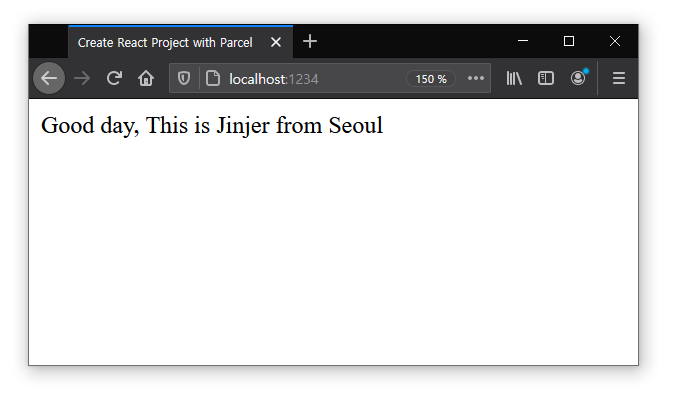
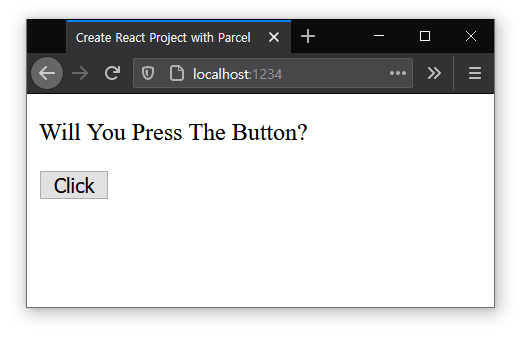
포스팅 추가

Changed region(s): [[0.0302, 0.0581, 0.9679, 0.9012]]

diff --git a/_site/blog/index.html b/_site/blog/index.html
@@ -49,11 +49,11 @@ Powered by Hydejack v9.0.5 <https://hydejack.com/>
 <meta property="og:url" content="http://localhost:4000/blog/" />
 <meta property="og:site_name" content="Jinjer’s Blog" />
 <meta property="og:type" content="article" />
-<meta property="article:published_time" content="2021-01-28T17:12:47+09:00" />
+<meta property="article:published_time" content="2021-01-29T22:03:18+09:00" />
 <meta name="twitter:card" content="summary" />
 <meta property="twitter:title" content="Blog" />
 <script type="application/ld+json">
-{"url":"http://localhost:4000/blog/","headline":"Blog","dateModified":"2021-01-05T16:00:02+09:00","datePublished":"2021-01-28T17:12:47+09:00","description":"Anything about Development","publisher":{"@type":"Organization","logo":{"@type":"ImageObject","url":"http://localhost:4000/assets/img/jinjer.png"}},"@type":"WebPage","@context":"https://schema.org"}</script>
+{"url":"http://localhost:4000/blog/","headline":"Blog","dateModified":"2021-01-05T16:00:02+09:00","datePublished":"2021-01-29T22:03:18+09:00","description":"Anything about Development","publisher":{"@type":"Organization","logo":{"@type":"ImageObject","url":"http://localhost:4000/assets/img/jinjer.png"}},"@type":"WebPage","@context":"https://schema.org"}</script>
 <!-- End Jekyll SEO tag -->
 
 
@@ -417,7 +417,7 @@ html{--accent-color: rgb(79,177,186);--accent-color-faded: rgba(79,177,186,0.5);
 
 
 <li class="h4">
-  <a href="/blog/2020/04/26/react-without-create-react-app.html" class="flip-title"><span>React 프로젝트 작업 환경 세팅하기</span></a>
+  <a href="/blog/2020/04/26/react-without-create-react-app.html" class="flip-title"><span>React(Next.js)로 만드는 채팅 애플리케이션(1)</span></a>
   <time class="faded fine" datetime="2020-04-26T00:00:00+09:00">26 Apr</time>
 </li>
 

diff --git a/_site/tag-nodejs/index.html b/_site/tag-nodejs/index.html
@@ -49,11 +49,11 @@ Powered by Hydejack v9.0.5 <https://hydejack.com/>
 <meta property="og:url" content="http://localhost:4000/tag-nodejs/" />
 <meta property="og:site_name" content="Jinjer’s Blog" />
 <meta property="og:type" content="article" />
-<meta property="article:published_time" content="2021-01-29T12:07:36+09:00" />
+<meta property="article:published_time" content="2021-01-29T22:03:18+09:00" />
 <meta name="twitter:card" content="summary" />
 <meta property="twitter:title" content="Node.js" />
 <script type="application/ld+json">
-{"url":"http://localhost:4000/tag-nodejs/","publisher":{"@type":"Organization","logo":{"@type":"ImageObject","url":"http://localhost:4000/assets/img/jinjer.png"}},"headline":"Node.js","dateModified":"2021-01-26T14:26:19+09:00","datePublished":"2021-01-29T12:07:36+09:00","description":"Posts about Node.js","@type":"WebPage","@context":"https://schema.org"}</script>
+{"url":"http://localhost:4000/tag-nodejs/","headline":"Node.js","dateModified":"2021-01-05T16:01:57+09:00","datePublished":"2021-01-29T22:03:18+09:00","description":"Posts about Node.js","publisher":{"@type":"Organization","logo":{"@type":"ImageObject","url":"http://localhost:4000/assets/img/jinjer.png"}},"@type":"WebPage","@context":"https://schema.org"}</script>
 <!-- End Jekyll SEO tag -->
 
 

diff --git a/_site/tag-aws/index.html b/_site/tag-aws/index.html
@@ -49,11 +49,11 @@ Powered by Hydejack v9.0.5 <https://hydejack.com/>
 <meta property="og:url" content="http://localhost:4000/tag-aws/" />
 <meta property="og:site_name" content="Jinjer’s Blog" />
 <meta property="og:type" content="article" />
-<meta property="article:published_time" content="2021-01-28T16:42:12+09:00" />
+<meta property="article:published_time" content="2021-01-29T22:03:18+09:00" />
 <meta name="twitter:card" content="summary" />
 <meta property="twitter:title" content="AWS" />
 <script type="application/ld+json">
-{"url":"http://localhost:4000/tag-aws/","headline":"AWS","dateModified":"2021-01-05T16:02:41+09:00","datePublished":"2021-01-28T16:42:12+09:00","description":"Posts about AWS","publisher":{"@type":"Organization","logo":{"@type":"ImageObject","url":"http://localhost:4000/assets/img/jinjer.png"}},"@type":"WebPage","@context":"https://schema.org"}</script>
+{"url":"http://localhost:4000/tag-aws/","headline":"AWS","dateModified":"2021-01-05T16:02:41+09:00","datePublished":"2021-01-29T22:03:18+09:00","description":"Posts about AWS","publisher":{"@type":"Organization","logo":{"@type":"ImageObject","url":"http://localhost:4000/assets/img/jinjer.png"}},"@type":"WebPage","@context":"https://schema.org"}</script>
 <!-- End Jekyll SEO tag -->
 
 

diff --git a/_site/index.html b/_site/index.html
@@ -601,7 +601,7 @@ html{--accent-color: rgb(79,177,186);--accent-color-faded: rgba(79,177,186,0.5);
 
 
 <li class="h4">
-  <a href="/blog/2020/04/26/react-without-create-react-app.html" class="flip-title"><span>React 프로젝트 작업 환경 세팅하기</span></a>
+  <a href="/blog/2020/04/26/react-without-create-react-app.html" class="flip-title"><span>React(Next.js)로 만드는 채팅 애플리케이션(1)</span></a>
   <time class="faded fine" datetime="2020-04-26T00:00:00+09:00">26 Apr</time>
 </li>
 

diff --git a/_posts/blog/React/2020-04-28-react-with-prettier.md b/_posts/blog/React/2020-04-28-react-with-prettier.md
@@ -13,15 +13,15 @@ tags: react
 
 ## Prettier
 
-이번 포스팅에서는 가장 대중적인 코드 포맷터인 Prettier를 적용해 보도록 하겠습니다  
+이번 포스팅에서는 가장 대중적인 코드 포맷터인 Prettier를 적용해 보도록 할 건데요   
 만약 Prittier 사용을 원하지 않는다면 다음 포스팅으로 넘어가도 전체적인 흐름에 영향이 없습니다     
-그럼 설치를 해보죠 터미널을 열어 아래의 명령어를 입력해 줍니다.
+IDE에서 린터를 지원하지 않는다면 따로 설치가 필요합니다 터미널을 열어 아래의 명령어를 입력해 줍니다.
 
 ```shell
 npm install --save-dev --save-exact prettier
 ```
 
-> --save-exact 옵션을 사용하면 버전이 바뀌면서 생기는 스타일의 변화에 대응할 수 있습니다
+> exact 옵션을 사용하면 버전이 바뀌면서 생기는 스타일의 변화에 대응할 수 있습니다
 
 ### .prettierignore
 
@@ -35,7 +35,7 @@ coverage
 
 ### 포맷
 
-Ignore 설정을 한 뒤 포맷을 하기 위해  터미널을 열고 아래의 명령어를 입력해 줍니다  
+Ignore 설정을 했다면 포맷을 하기 위해 터미널을 열고 아래의 명령어를 입력해 줍니다  
 'src' 경로의 파일 형식에 대해서만 포맷을 하겠습니다. 
 
 ```shell
@@ -46,7 +46,15 @@ npx prettier --write src/
 
 ## Options
 
-아래의 옵션을 사용하여 들여 쓰기, 공백 사용, 세미콜론, 브래킷 간격 등 옵션을 지정할 수 있습니다!      
+루트 경로에 prettier.config.js 파일을 하나 만들어 주세요   
+아래의 옵션을 사용하여 들여 쓰기, 공백 사용, 세미콜론, 브래킷 간격 등 포맷 시에 옵션을 지정할 수 있습니다
+
+```javascript
+module.exports = {
+    tabWidth: 4,
+    semi: false
+};
+```
 
 ### Tab Width
 
@@ -55,14 +63,6 @@ npx prettier --write src/
 |----|----|----|
 |Default|CLI Override|API Override|
 |2|--tab-width &lt;int&gt;|tabWidth: &lt;int&gt;|
-
-### Tabs
-
-공백 대신 탭으로 들여 쓰기 합니다 
-
-|----|----|----|
-|Default|CLI Override|API Override|
-|false|--use-tabs|useTabs: &lt;bool&gt;|
 
 ### Semicolons
 
@@ -73,7 +73,7 @@ npx prettier --write src/
 |true|--no-semi|semi: &lt;bool&gt;|
 
 
-> 이외에 옵션 사항은 [Prettier 공식문서](https://prettier.io/docs/en/options.html){: target="_blank"}를 참고해 주세요!
+> 이외에 추가 옵션 사항은 [Prettier 공식문서](https://prettier.io/docs/en/options.html){: target="_blank"}를 참고해 주세요!
  
 
 

diff --git a/_posts/blog/React/2020-04-26-react-without-create-react-app.md b/_posts/blog/React/2020-04-26-react-without-create-react-app.md
@@ -1,6 +1,6 @@
 ---
 layout: post
-title: "React 프로젝트 작업 환경 세팅하기"
+title: "React(Next.js)로 만드는 채팅 애플리케이션(1)"
 description: "create-react-app 사용하지 않고 프로젝트 생성"
 category: blog
 tags: react
@@ -81,37 +81,39 @@ npm i --save-dev parcel-bundler
 ```html
 <!DOCTYPE html>
 <html lang="en">
-<head>
-  <meta charset="UTF-8">
-  <title>Create React Project with Parcel</title>
-</head>
-<body>
-  <div id="app"></div>
-  <script src="app.js"></script>
-</body>
+    <head>
+        <meta charset="UTF-8" />
+        <title>Create React Project with Parcel</title>
+    </head>
+    <body>
+        <div id="app"></div>
+        <div id="app2"></div>
+        <script src="app.js"></script>
+    </body>
 </html>
 ``` 
 
 ### app.js
 
 생성한 'src' 폴더에 app.js 파일을 하나 만들어 주세요  
-ReactDOM의     
+State Hook을 사용해서 간단하게 메시지의 상태를 바꾸는 버튼을 만들어 보죠       
 
 ```javascript
-import React from "react";
+import React, { useState } from "react";
 import ReactDOM from "react-dom";
 
-class User extends React.Component {
-    render() {
-        return <div>Good day, This is {this.props.name} from {this.props.city}</div>;
-    }
-}
+const App = () => {
+    const [message, setMessage] = useState("Will You Press The Button?");
 
-ReactDOM.render(
-    <User name="Jinjer" city="Seoul" />,
-    document.getElementById("app")
-);
+    return (
+        <div>
+            <p>{message}</p>
+            <button onClick={() => setMessage("Oops!")}>Click</button>
+        </div>
+    );
+};
 
+ReactDOM.render(<App />, document.getElementById("app"));
 ```
 
 ### 실행
